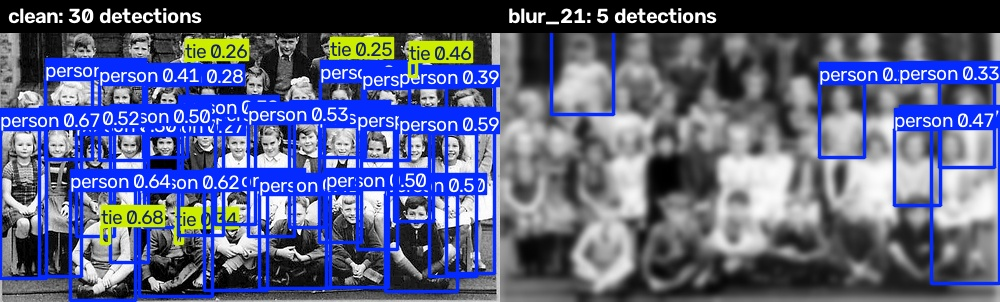
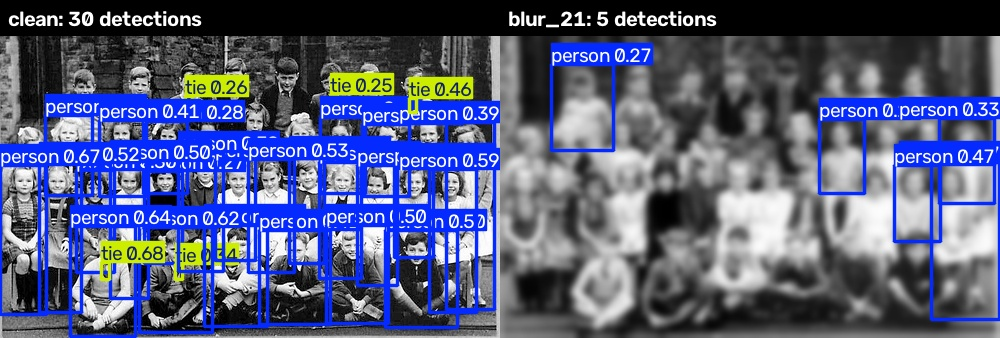
fix duped code, create failure detection pipeline

diff --git a/corruptions.py b/corruptions.py
@@ -35,40 +35,3 @@ CORRUPTIONS = {
     "dark":   (darken,          [0.7, 0.4, 0.2]),
     "jpeg":   (jpeg_compress,   [50, 20, 5]),
 }
-import cv2
-import numpy as np
-
-
-def gaussian_blur(img, k):
-    """Blur with a k x k Gaussian kernel (k must be odd). Bigger k = blurrier."""
-    return cv2.GaussianBlur(img, (k, k), 0)
-
-
-def gaussian_noise(img, sigma):
-    """Add zero-mean Gaussian noise with standard deviation sigma (in 0-255 units)."""
-    # Seed from the image itself so results are reproducible but differ per image
-    rng = np.random.default_rng(int(img.sum()) % (2**32))
-    noise = rng.normal(0, sigma, img.shape)
-    noisy = img.astype(np.float32) + noise
-    return np.clip(noisy, 0, 255).astype(np.uint8)  # keep valid pixel range
-
-
-def darken(img, factor):
-    """Multiply all pixels by factor (< 1). Smaller factor = darker."""
-    dark = img.astype(np.float32) * factor
-    return np.clip(dark, 0, 255).astype(np.uint8)
-
-
-def jpeg_compress(img, quality):
-    """Encode as JPEG at the given quality (1-100) and decode back. Lower = more artifacts."""
-    ok, buf = cv2.imencode(".jpg", img, [cv2.IMWRITE_JPEG_QUALITY, quality])
-    return cv2.imdecode(buf, cv2.IMREAD_COLOR)
-
-
-# name -> (function, [mild, medium, severe])
-CORRUPTIONS = {
-    "blur":   (gaussian_blur,   [5, 11, 21]),
-    "noise":  (gaussian_noise,  [10, 25, 50]),
-    "dark":   (darken,          [0.7, 0.4, 0.2]),
-    "jpeg":   (jpeg_compress,   [50, 20, 5]),
-}

diff --git a/find_failures.py b/find_failures.py
@@ -6,7 +6,7 @@ from ultralytics import YOLO
 
 model = YOLO("yolov8s.pt")
 CONF = 0.25                                   # a detection counts if confidence >= 0.25
-CASES = ["blur_21", "noise_50", "dark_0.2", "jpeg_20"]
+CASES = ["blur_21, noise_50, dark_0.2, jpeg_5"]
 N_LOST = 3                                    # images with the most lost detections, per case
 CLEAN_DIR = Path("data/subset/images/val")
 OUT = Path("results/failures")
@@ -25,11 +25,12 @@ def count_detections(paths):
 
 
 def draw(path, title):
-    """Run the model on one image and return it with boxes drawn and a title banner."""
+    """Run the model on one image and return it with boxes drawn and a title banner above."""
     r = model.predict(str(path), conf=CONF, imgsz=640, device=0, verbose=False)[0]
     img = r.plot()
-    cv2.rectangle(img, (0, 0), (img.shape[1], 32), (0, 0, 0), -1)
-    cv2.putText(img, f"{title}: {len(r.boxes)} detections", (8, 23),
+    # Add a 36-pixel black strip above the image instead of drawing over it
+    img = cv2.copyMakeBorder(img, 36, 0, 0, 0, cv2.BORDER_CONSTANT, value=(0, 0, 0))
+    cv2.putText(img, f"{title}: {len(r.boxes)} detections", (8, 26),
                 cv2.FONT_HERSHEY_SIMPLEX, 0.7, (255, 255, 255), 2)
     return img
 
